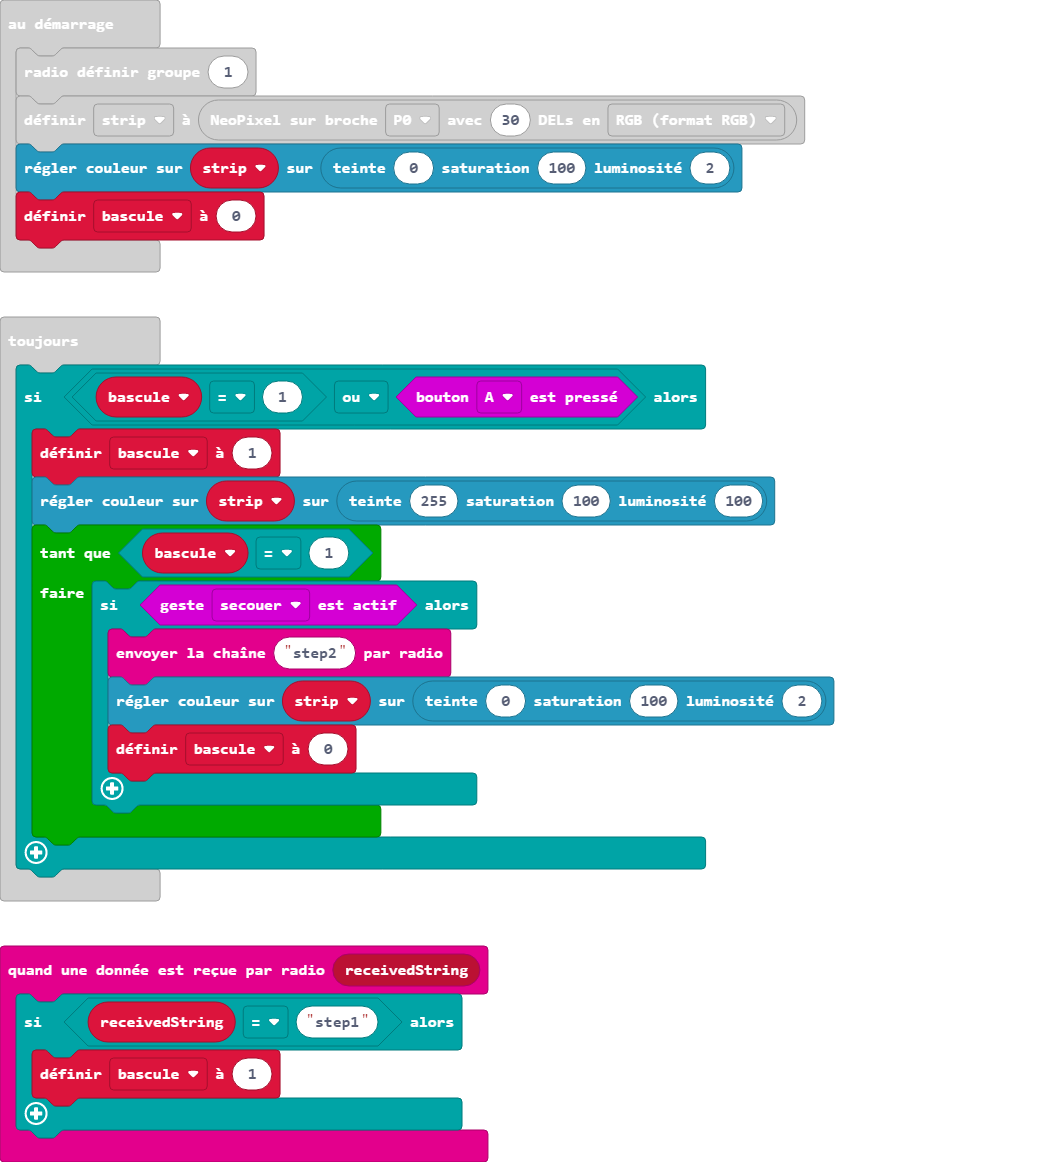
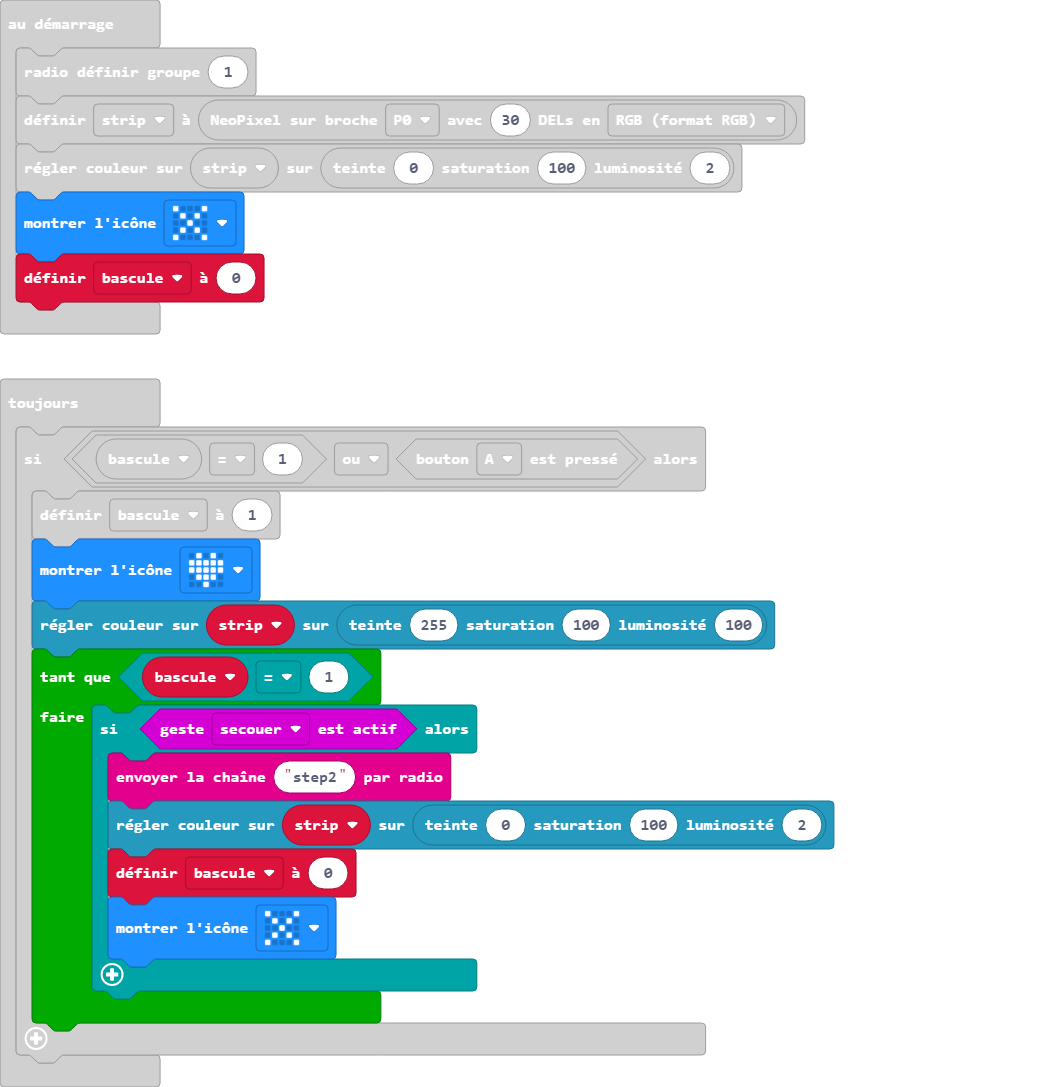
Mise à jour main.blocks, main.ts

diff --git a/main.ts b/main.ts
@@ -7,16 +7,19 @@ let bascule = 0
 radio.setGroup(1)
 let strip = neopixel.create(DigitalPin.P0, 30, NeoPixelMode.RGB)
 strip.showColor(neopixel.hsl(0, 100, 2))
+basic.showIcon(IconNames.No)
 bascule = 0
 basic.forever(function () {
     if (bascule == 1 || input.buttonIsPressed(Button.A)) {
         bascule = 1
+        basic.showIcon(IconNames.Heart)
         strip.showColor(neopixel.hsl(255, 100, 100))
         while (bascule == 1) {
             if (input.isGesture(Gesture.Shake)) {
                 radio.sendString("step2")
                 strip.showColor(neopixel.hsl(0, 100, 2))
                 bascule = 0
+                basic.showIcon(IconNames.No)
             }
         }
     }
